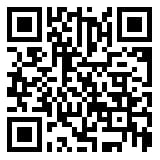
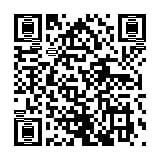
auto push commit

diff --git a/payment/donation.html b/payment/donation.html
@@ -54,7 +54,7 @@
                   width="80%"
                   src="/images/payments/any-amount-QR-code.jpg"
                 />
-                <div>UPI : 8123227424@sbi</div>
+                <div>UPI : shashikaladt@sbi</div>
                 <div>Name : Shashikala</div>
                 <br />
                 <div>State Bank Of India</div>
